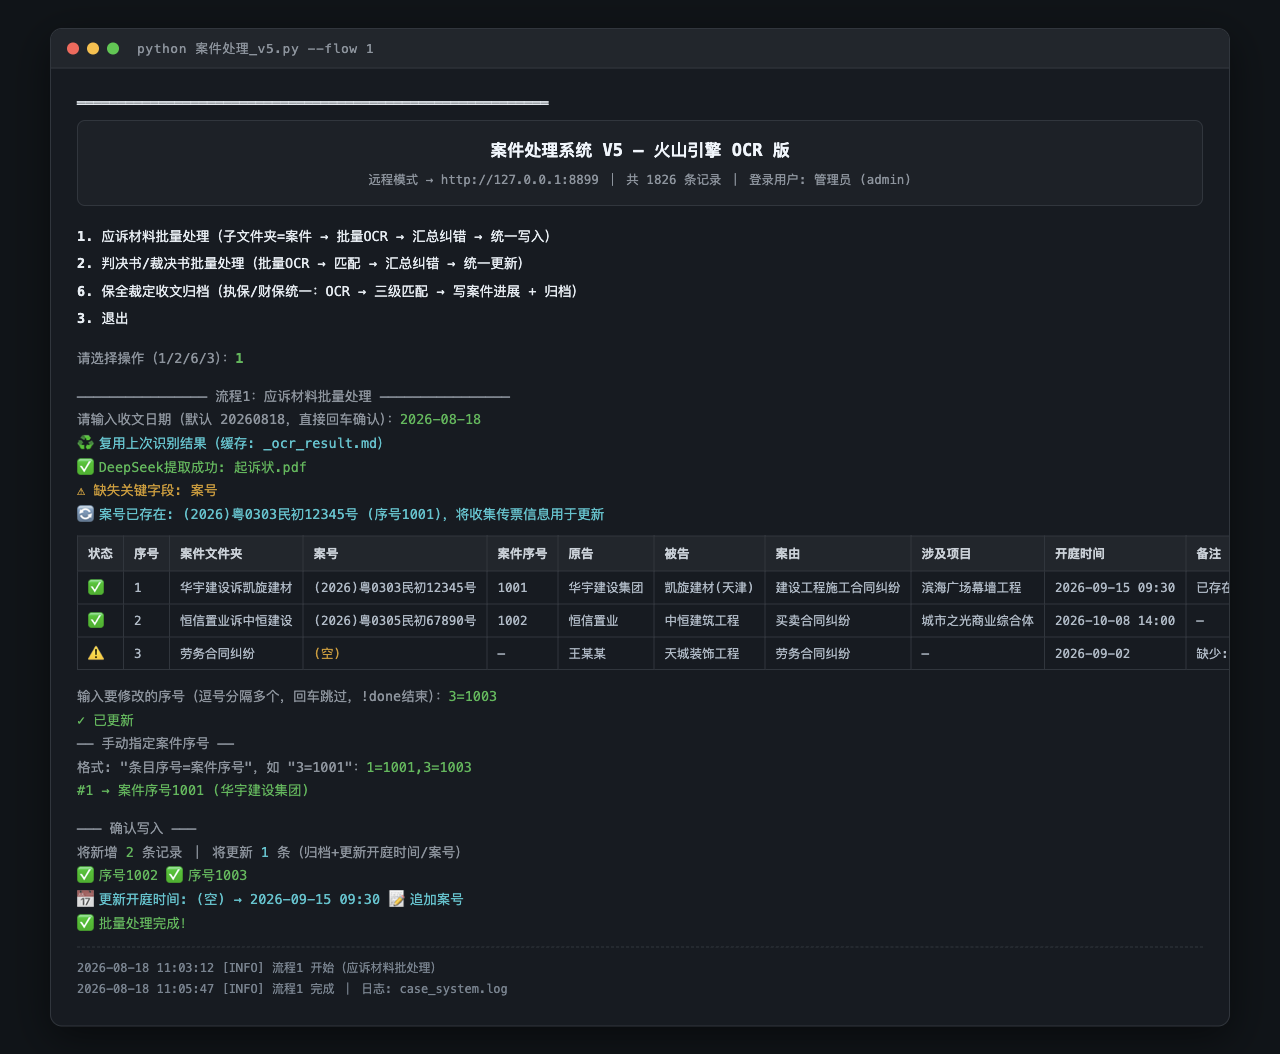
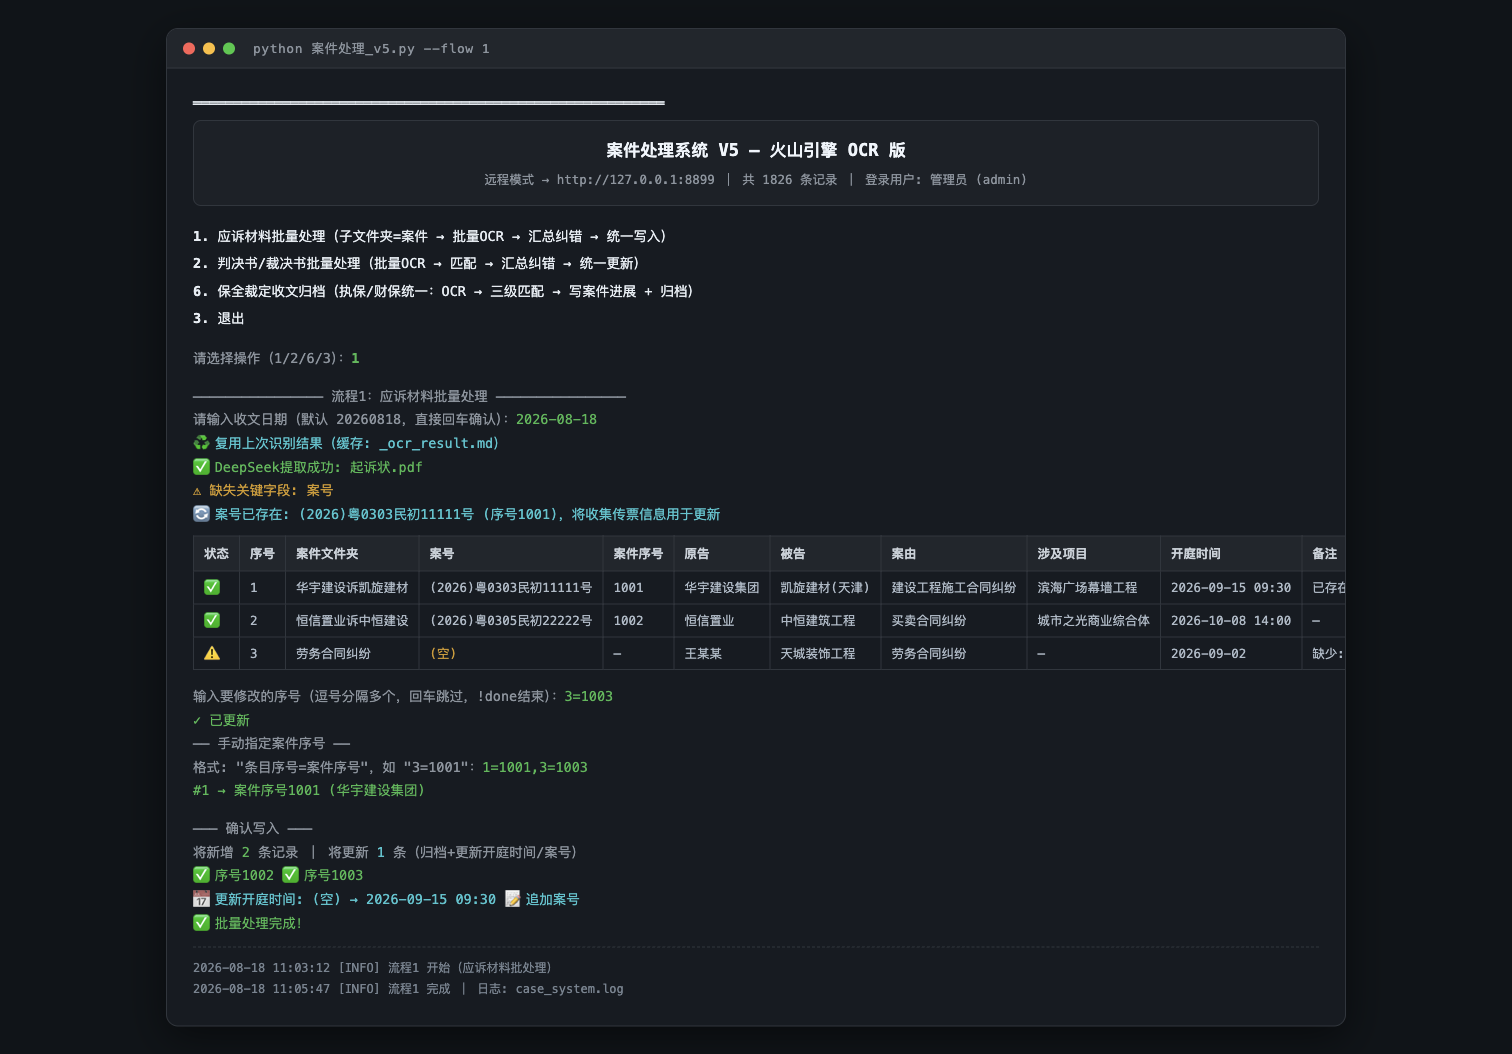
预览图案号改为明显虚构编号（11111/22222）

diff --git a/docs/preview.html b/docs/preview.html
@@ -89,12 +89,12 @@
     <div><span class="cyan">♻  复用上次识别结果（缓存: _ocr_result.md）</span></div>
     <div><span class="green">✅ DeepSeek提取成功: 起诉状.pdf</span></div>
     <div><span class="yellow">⚠ 缺失关键字段: 案号</span></div>
-    <div><span class="cyan">🔄 案号已存在: (2026)粤0303民初12345号 (序号1001)，将收集传票信息用于更新</span></div>
+    <div><span class="cyan">🔄 案号已存在: (2026)粤0303民初11111号 (序号1001)，将收集传票信息用于更新</span></div>
 
     <table>
       <tr><th>状态</th><th>序号</th><th>案件文件夹</th><th>案号</th><th>案件序号</th><th>原告</th><th>被告</th><th>案由</th><th>涉及项目</th><th>开庭时间</th><th>备注</th></tr>
-      <tr><td class="ok">✅</td><td>1</td><td>华宇建设诉凯旋建材</td><td>(2026)粤0303民初12345号</td><td>1001</td><td>华宇建设集团</td><td>凯旋建材(天津)</td><td>建设工程施工合同纠纷</td><td>滨海广场幕墙工程</td><td>2026-09-15 09:30</td><td>已存在: 序号1001</td></tr>
-      <tr><td class="ok">✅</td><td>2</td><td>恒信置业诉中恒建设</td><td>(2026)粤0305民初67890号</td><td>1002</td><td>恒信置业</td><td>中恒建筑工程</td><td>买卖合同纠纷</td><td>城市之光商业综合体</td><td>2026-10-08 14:00</td><td>—</td></tr>
+      <tr><td class="ok">✅</td><td>1</td><td>华宇建设诉凯旋建材</td><td>(2026)粤0303民初11111号</td><td>1001</td><td>华宇建设集团</td><td>凯旋建材(天津)</td><td>建设工程施工合同纠纷</td><td>滨海广场幕墙工程</td><td>2026-09-15 09:30</td><td>已存在: 序号1001</td></tr>
+      <tr><td class="ok">✅</td><td>2</td><td>恒信置业诉中恒建设</td><td>(2026)粤0305民初22222号</td><td>1002</td><td>恒信置业</td><td>中恒建筑工程</td><td>买卖合同纠纷</td><td>城市之光商业综合体</td><td>2026-10-08 14:00</td><td>—</td></tr>
       <tr><td class="warn">⚠</td><td>3</td><td>劳务合同纠纷</td><td><span class="yellow">(空)</span></td><td>—</td><td>王某某</td><td>天城装饰工程</td><td>劳务合同纠纷</td><td>—</td><td>2026-09-02</td><td>缺少: 案号</td></tr>
     </table>
 
